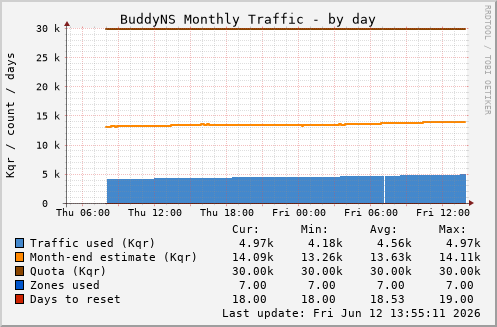
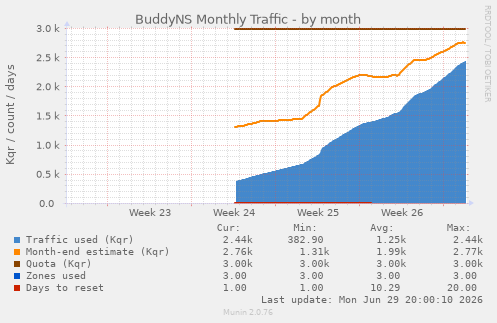
split the graphs in two, traffic and general status

Changed region(s): [[0.0, 0.0, 1.0, 1.0]]

diff --git a/README.md b/README.md
@@ -8,17 +8,24 @@ Munin plugin for [BuddyNS](https://www.buddyns.com/) secondary DNS monitoring.
 
 ## What it monitors
 
-A single graph — **BuddyNS Monthly Traffic** — combining all relevant metrics:
+Two graphs, installed from a single plugin file via symlinks:
+
+### buddyns_traffic — BuddyNS Monthly Traffic
 
 | Data series | Colour | Description |
 |---|---|---|
 | Traffic used (Kqr) | blue area | DNS queries served this calendar month, in kilo-queries |
 | Month-end estimate (Kqr) | orange line | BuddyNS projection of total traffic by end of month |
 | Quota (Kqr) | dark orange line | Monthly traffic quota for the current plan |
+
+### buddyns_status — BuddyNS Status
+
+| Data series | Colour | Description |
+|---|---|---|
 | Zones used | blue line | Number of secondary zones delegated to BuddyNS |
 | Days to reset | red line | Days remaining until the monthly counter resets |
 
-Traffic resets at the start of each calendar month, producing a sawtooth pattern. The month-end estimate line lets you see early whether the current month is on track to exceed the quota. Zones and days share the same graph axis — their values (typically 1–100 for zones, 0–31 for days) are small relative to Kqr traffic but remain readable as reference lines.
+Traffic resets at the start of each calendar month, producing a sawtooth pattern. The month-end estimate line lets you see early whether the current month is on track to exceed the quota. Zones and days are kept on a separate graph — their values (typically 1–100 for zones, 0–31 for days) would be invisible at the bottom of a Kqr-scale traffic graph.
 
 BuddyNS API endpoints used: `/api/v2/zone/`, `/api/v2/service/`, `/api/v2/user/profile/`
 
@@ -35,7 +42,8 @@ Both are standard packages almost certainly already installed on a Munin node.
 ```bash
 cp buddyns_ /usr/share/munin/plugins/
 chmod 755   /usr/share/munin/plugins/buddyns_
-ln -s /usr/share/munin/plugins/buddyns_ /etc/munin/plugins/buddyns_
+ln -s /usr/share/munin/plugins/buddyns_ /etc/munin/plugins/buddyns_traffic
+ln -s /usr/share/munin/plugins/buddyns_ /etc/munin/plugins/buddyns_status
 ```
 
 ## Configuration
@@ -69,20 +77,23 @@ Check that the plugin is detected and configured correctly:
 
 ```bash
 # Test autoconf (should print "yes")
-munin-run buddyns_ autoconf
+munin-run buddyns_traffic autoconf
+munin-run buddyns_status autoconf
 
 # Test config output
-munin-run buddyns_ config
+munin-run buddyns_traffic config
+munin-run buddyns_status config
 
 # Test data fetch
-munin-run buddyns_
+munin-run buddyns_traffic
+munin-run buddyns_status
 ```
 
 `munin-node-configure --suggest` will also list the plugin as available once credentials are in place.
 
 ## Developer reference
 
-The plugin uses [BuddyNS API v2](https://www.buddyns.com/api/v2/). Endpoints consumed:
+The plugin uses [BuddyNS API v2](https://www.buddyns.com/api/v2/). The graph shown depends on the symlink name the script is invoked as (`buddyns_traffic` or `buddyns_status`), read from `$0`. Endpoints consumed:
 
 | Endpoint | Purpose |
 |---|---|